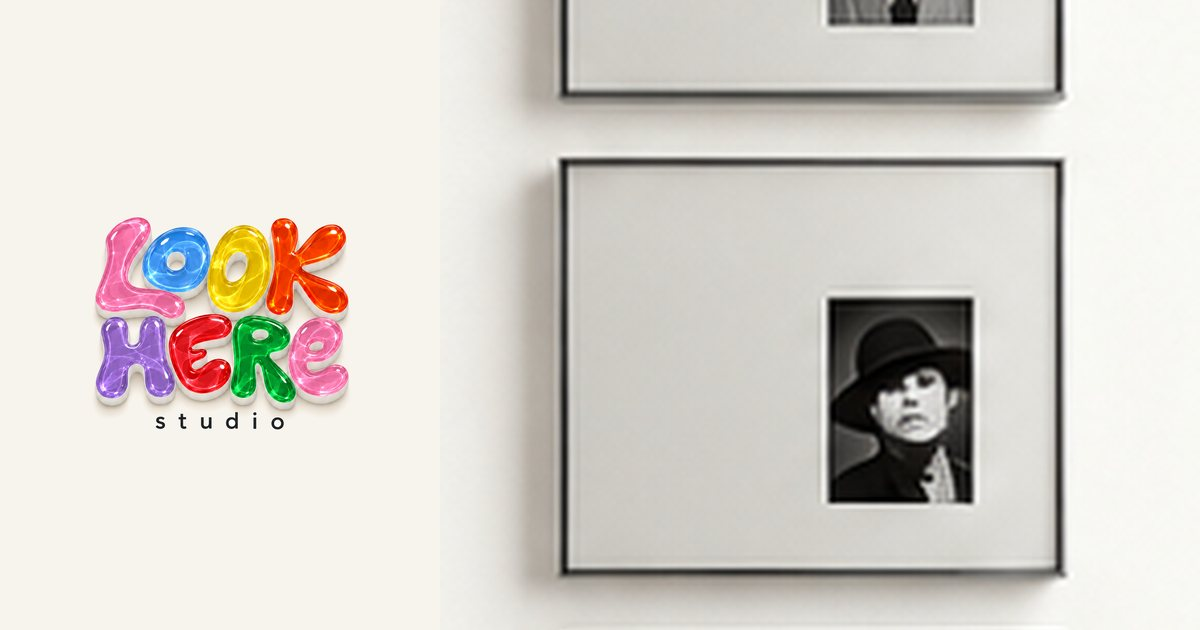
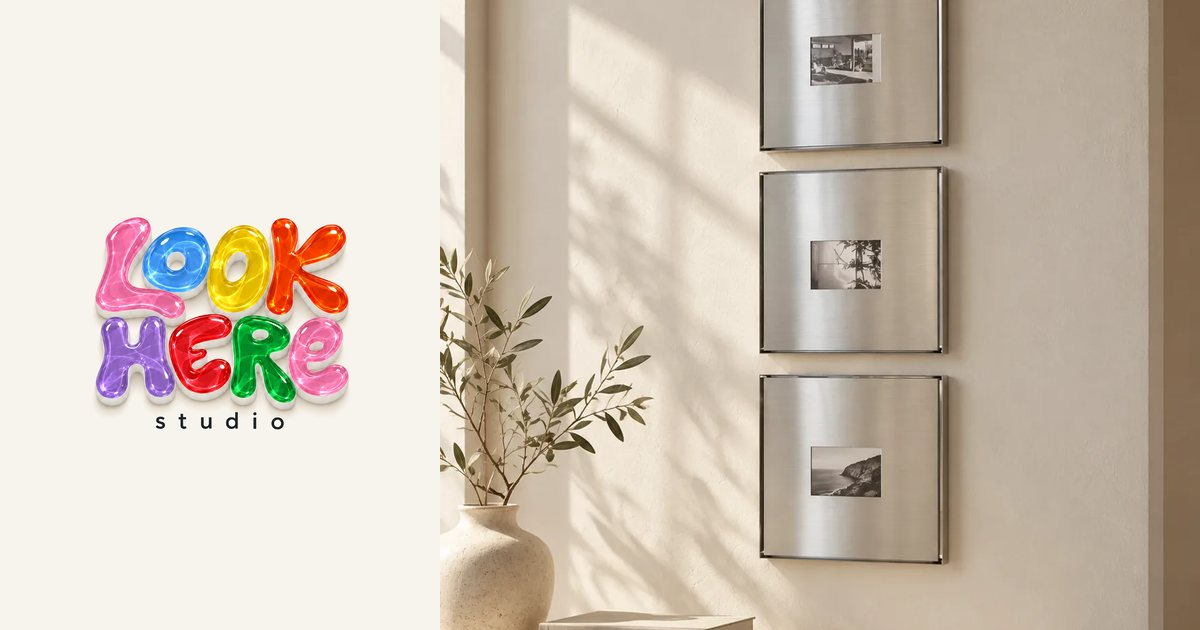
Square Frame + Strip Frame: new lifestyle photography
Square Frame gets two room shots (set of three, brushed silver); Strip Frame
gets the photobooth-strip room shot. Both switch to cover fit; share cards
regenerated; old cutout PNG/WebP removed.

diff --git a/data/products.ts b/data/products.ts
@@ -128,8 +128,9 @@ export const products: Product[] = [
     price: 8900,
     currency: "INR",
     status: "available",
-    images: ["/objects/square-frame.webp"],
+    images: ["/objects/square-frame-1.webp", "/objects/square-frame-2.webp"],
     lifestyleImages: [],
+    imageFit: "cover",
     leadTime: "Ships in 3–5 days",
     care: "Glass cleaner on the cloth, never on the glass.",
     installation: "One screw each. Template included.",
@@ -157,8 +158,9 @@ export const products: Product[] = [
     price: 6400,
     currency: "INR",
     status: "available",
-    images: ["/objects/strip-frame.webp"],
+    images: ["/objects/strip-frame-1.webp"],
     lifestyleImages: [],
+    imageFit: "cover",
     leadTime: "Ships in 3–5 days",
     care: "Fingerprints wipe off with a dry cloth.",
     installation: "Keyhole mount, single screw.",
